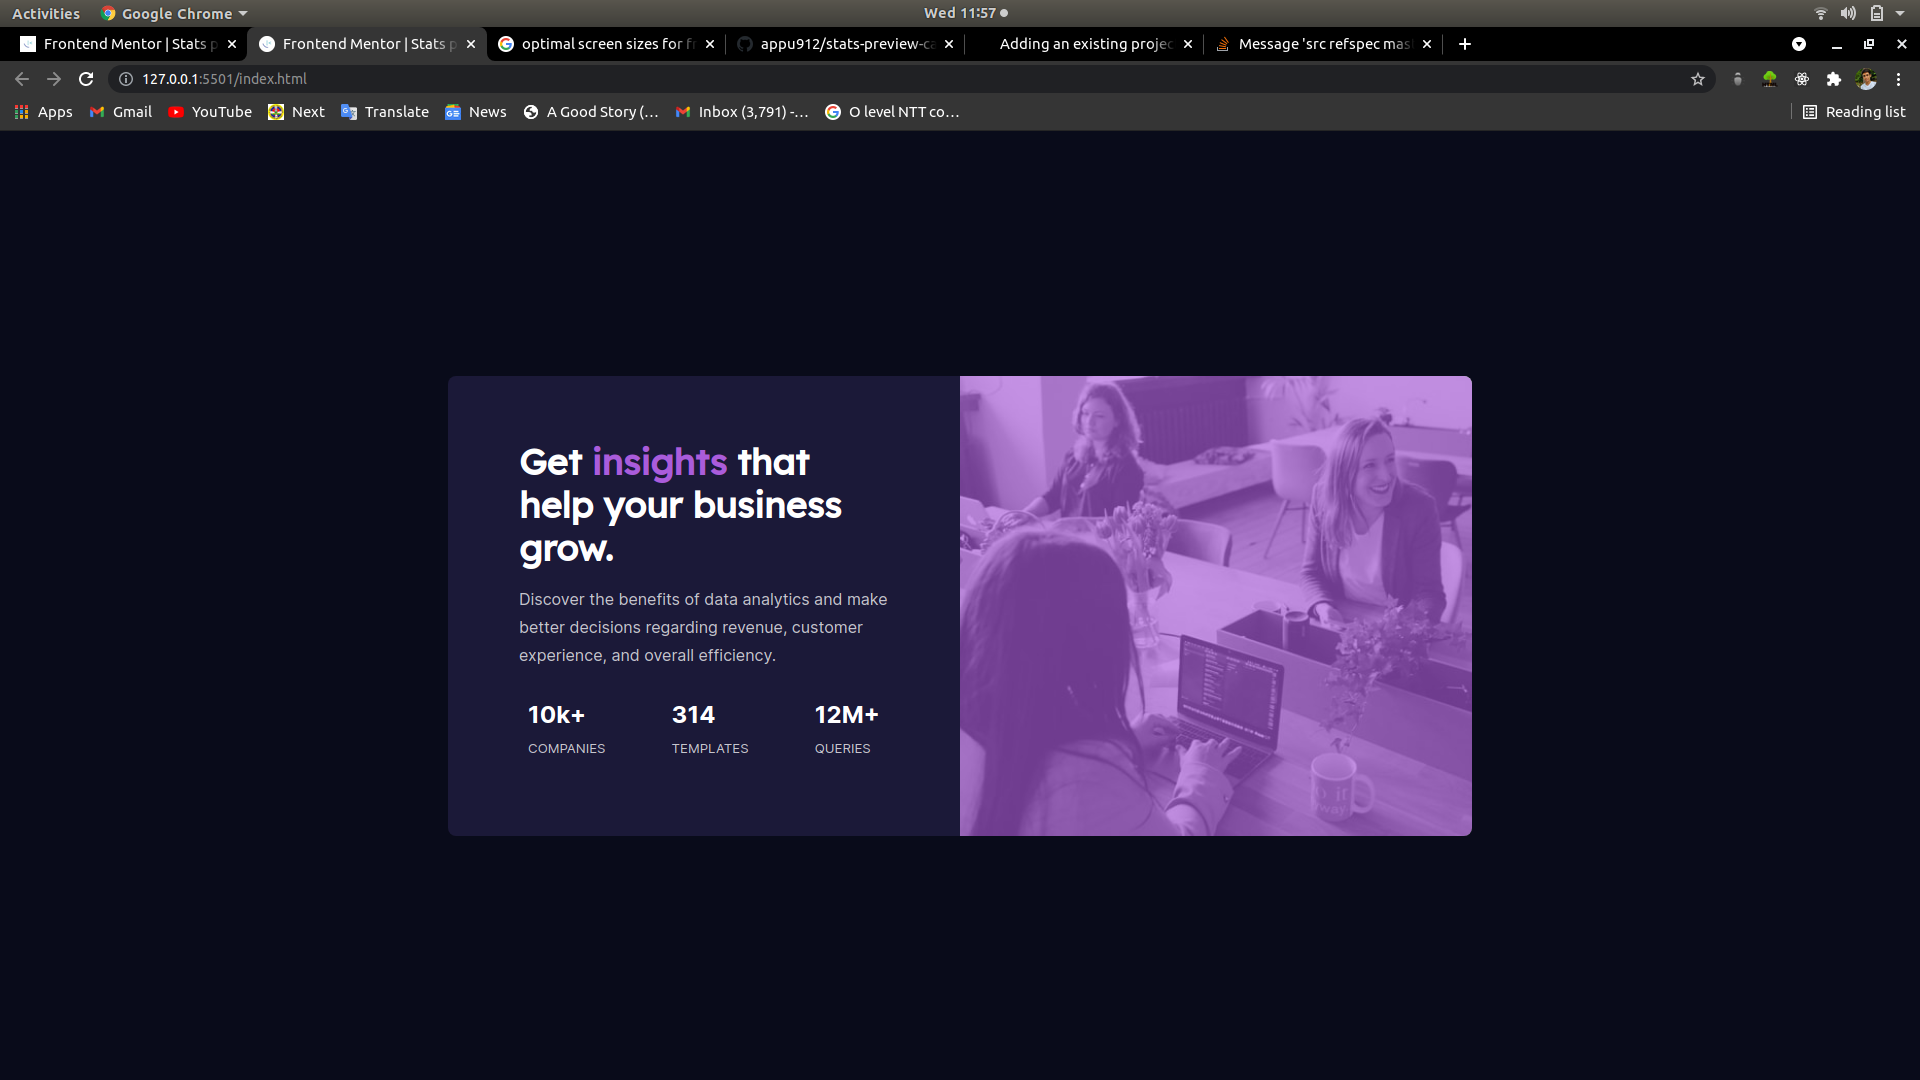
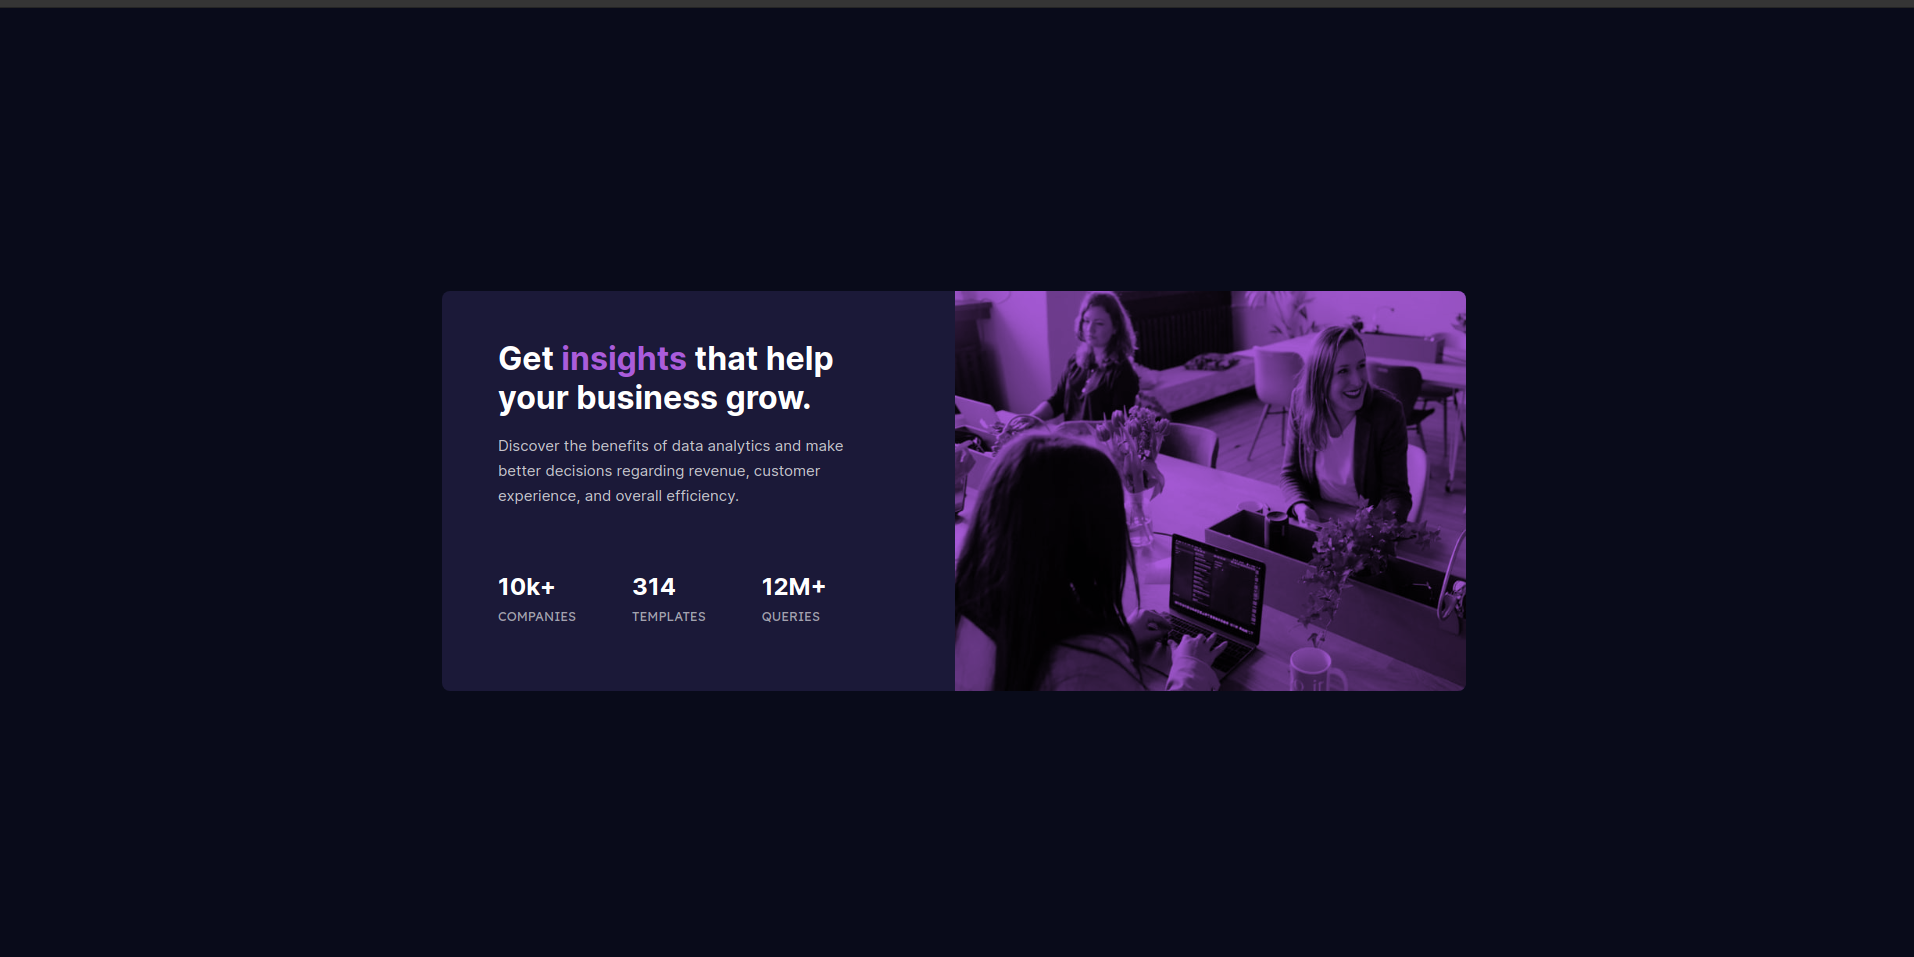
Updated Design

Changed region(s): [[0.2158, 0.303, 0.7706, 0.7879], [0.0, 0.0, 1.0, 0.1212]]

diff --git a/index.html b/index.html
@@ -5,43 +5,38 @@
   <meta name="viewport" content="width=device-width, initial-scale=1.0"> <!-- displays site properly based on user's device -->
 
   <link rel="icon" type="image/png" sizes="32x32" href="./images/favicon-32x32.png">
-  <link rel="stylesheet" href="css/styles.css">
+  <link rel="stylesheet" href="/css/styles.css">
   <title>Frontend Mentor | Stats preview card component</title>
 </head>
 <body>
 
   <main class="main">
-    <section class="home-container bd-grid">
-      <div class="home-img">
-        <img src="images/image-header-desktop.jpg" alt="">
-        <div class="overlay"></div>
-      </div>
+    <section class="home-container grid">
+      <div class="home-img"></div>
       <div class="home-data">
         <h1 class="home-data-title">Get <span class="highlight">insights</span> that help your business grow.</h1>
         <p class="home-data-para">Discover the benefits of data analytics and make better decisions regarding revenue, customer 
         experience, and overall efficiency.</p>
-        <div class="boxes">
-          <div class="box">
+        <ul class="boxes">
+          <li class="box">
             <h2 class="title">10k+</h2>
             <span class="subtitle">COMPANIES</span>
-          </div>
-          <div class="box">
+          </li>
+          <li class="box">
             <h2 class="title">314</h2>
             <span class="subtitle">TEMPLATES</span>
-          </div>
-          <div class="box">
+          </li>
+          <li class="box">
             <h2 class="title">12M+</h2>
             <span class="subtitle">QUERIES</span>
-          </div>
-        </div>
+          </li>
+        </ul>
       </div>
     </section>
   </main>
 
   <footer class="footer">
-    <div class="footer-container">
       <p>Challenge by <a href="https://www.frontendmentor.io?ref=challenge" target="_blank">Frontend Mentor</a>. Coded by <a href="#">Apoorv Mehra</a>.</p>
-    </div>
   </footer>
   
 </body>

diff --git a/README.md b/README.md
@@ -1,0 +1,59 @@
+# Frontend Mentor - Stats preview card component solution
+
+This is a solution to the [Stats preview card component challenge on Frontend Mentor](https://www.frontendmentor.io/challenges/stats-preview-card-component-8JqbgoU62). Frontend Mentor challenges help you improve your coding skills by building realistic projects. 
+
+## Table of contents
+
+- [Overview](#overview)
+  - [The challenge](#the-challenge)
+  - [Screenshot](#screenshot)
+  - [Links](#links)
+- [My process](#my-process)
+  - [Built with](#built-with)
+  - [What I learned](#what-i-learned)
+  - [Continued development](#continued-development)
+- [Author](#author)
+## Overview
+
+- Design the stats preview card component and the design should be reponsive for the following screen sizes.
+- Mobile device - 375px
+- Desktop device - 1440px
+
+### The challenge
+
+Users should be able to:
+
+- View the optimal layout depending on their device's screen size
+
+### Screenshot
+
+![Design for stats-preview-card-component-main](./screenshot.png)
+### Links
+
+- Solution URL: [Github Project URL](https://github.com/appu912/stats-preview-card-component-main)
+- Live Site URL: [Live Site URL](https://appu912.github.io/stats-preview-card-component-main/)
+
+### Built with
+
+- Semantic HTML5 markup
+- CSS custom properties
+- Flexbox
+- CSS Grid
+- Mobile-first workflow
+
+### What I learned
+
+- In this project I learned how to use CSS Flexbox and grid together to achieve the required design.
+- Moreover I also learned to use media queries for responsive web design. 
+
+
+### Continued development
+
+- Though I learned using media queries, but I am not good at making the design suitable for all device sizes.
+- In the future, I will learning how make a design good for all screen sizes.
+
+
+## Author
+
+- Website - [Apoorv Mehra](https://appu912.github.io/cv/)
+- Frontend Mentor - [@appu912](https://www.frontendmentor.io/profile/appu912)
